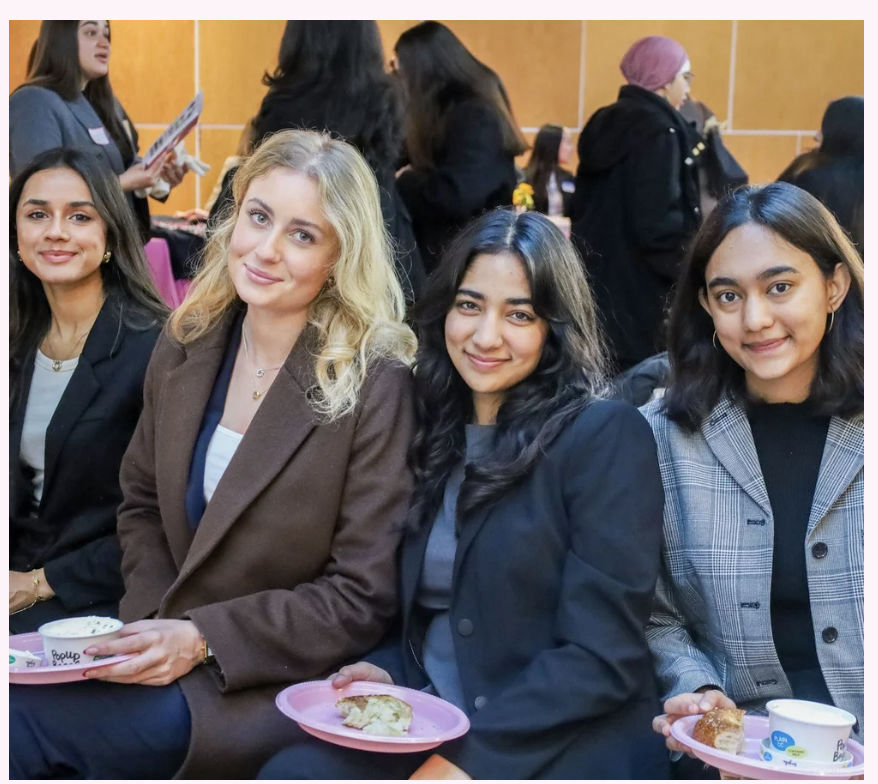
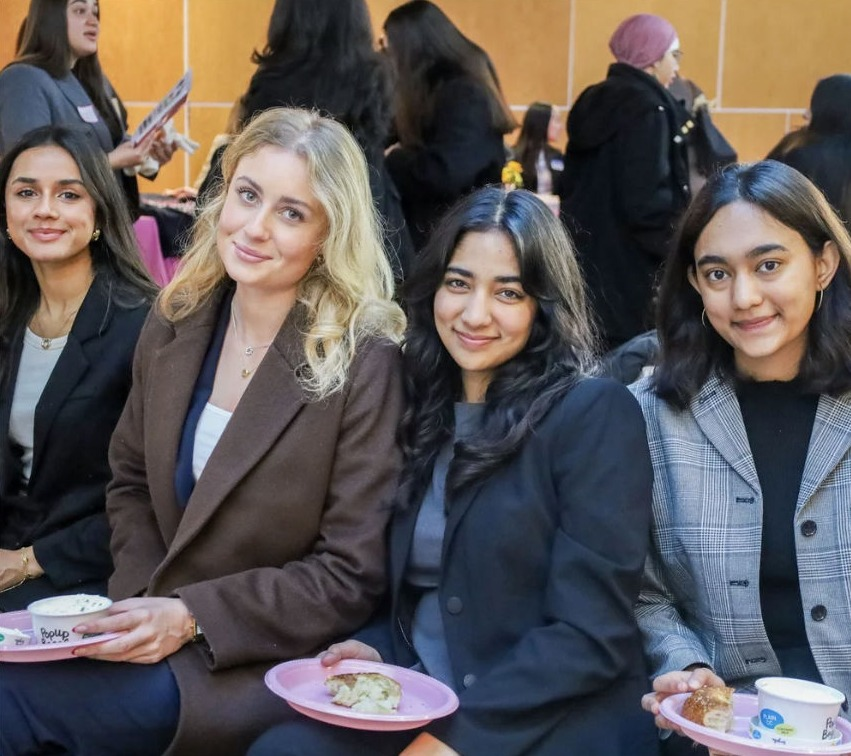
Crop light margin from Continued Education photo

diff --git a/src/content/photos.ts b/src/content/photos.ts
@@ -118,10 +118,10 @@ export const chapterActivityPhotos = {
   continuedEducation: {
     src: '/images/photos/chapter-continued-education.jpg',
     alt: 'Four women seated together at a gathering with plates and cups',
-    width: 878,
-    height: 784,
+    width: 851,
+    height: 756,
     focus: '50% 35%',
-    sourceNote: 'Photo supplied by the user on 2026-10-16 for Continued Education; copied unchanged.',
+    sourceNote: 'Photo supplied by the user on 2026-10-16 for Continued Education; its light outer margin was cropped away.',
   },
   community: {
     src: '/images/photos/chapter-community.jpg',

diff --git a/docs/asset-sources.md b/docs/asset-sources.md
@@ -41,7 +41,7 @@ Photos carry no visible captions or credits on the site, with one exception: the
 | `community-conversation.jpg` | 800 x 533 | Supplied by the user, `design-preview/refresh-inputs/community-coffee.jpeg` | Copied byte for byte; displayed at most about 400 CSS pixels wide. |
 | `chapter-workshop.jpg` | 996 x 1024 | User-supplied photo of a speaker addressing students at a Girls Into VC event (2026-10-16) | Pre-Professional Workshops column on About. Copied unchanged from the supplied JPEG. |
 | `chapter-fellowship.jpg` | 1024 x 539 | User-supplied photo of students in a lecture hall at a Girls Into VC event (2026-10-16) | Fellowship column on About. Copied unchanged from the supplied JPEG. |
-| `chapter-continued-education.jpg` | 878 x 784 | User-supplied photo of four women seated together at a gathering (2026-10-16) | Continued Education column on About. Copied unchanged from the supplied JPEG; CSS crop focuses at 50% 35%. |
+| `chapter-continued-education.jpg` | 851 x 756 | User-supplied photo of four women seated together at a gathering (2026-10-16) | Continued Education column on About. Cropped from the supplied 878 x 784 JPEG to remove its light outer margin; CSS crop focuses at 50% 35%. |
 | `chapter-community.jpg` | 1024 x 889 | User-supplied group photo of four women at a Girls Into VC event (2026-10-16) | Community column on About. Copied unchanged from the supplied JPEG. |
 | `speaker-avni-barman.jpg` | 800 x 800 | User-supplied photo (2026-10-16) | Portrait of Avni Barman on About. Copied unchanged from the supplied JPEG. |
 | `speaker-andrea-wang.jpg` | 800 x 800 | User-supplied photo (2026-10-16) | Portrait of Andrea Wang on About. Copied unchanged from the supplied JPEG. |
